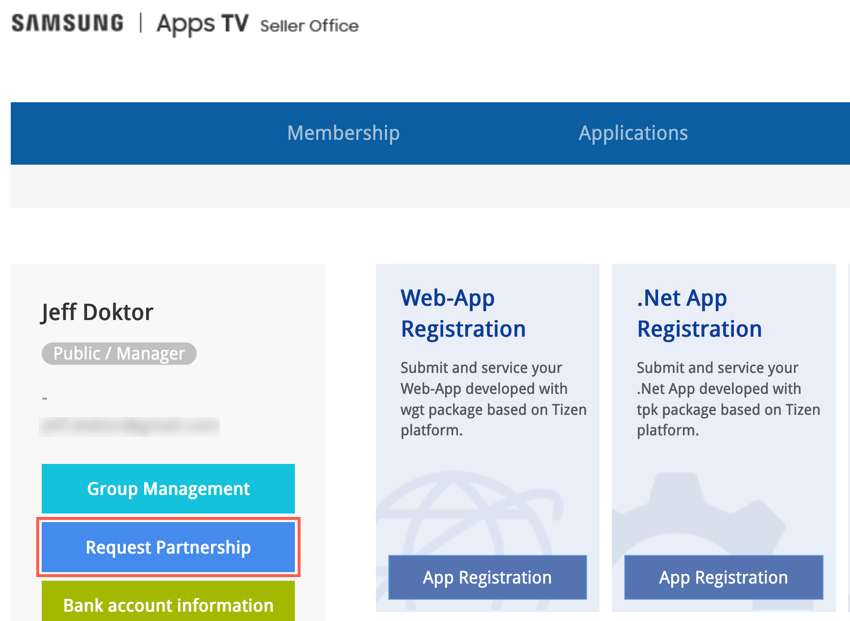
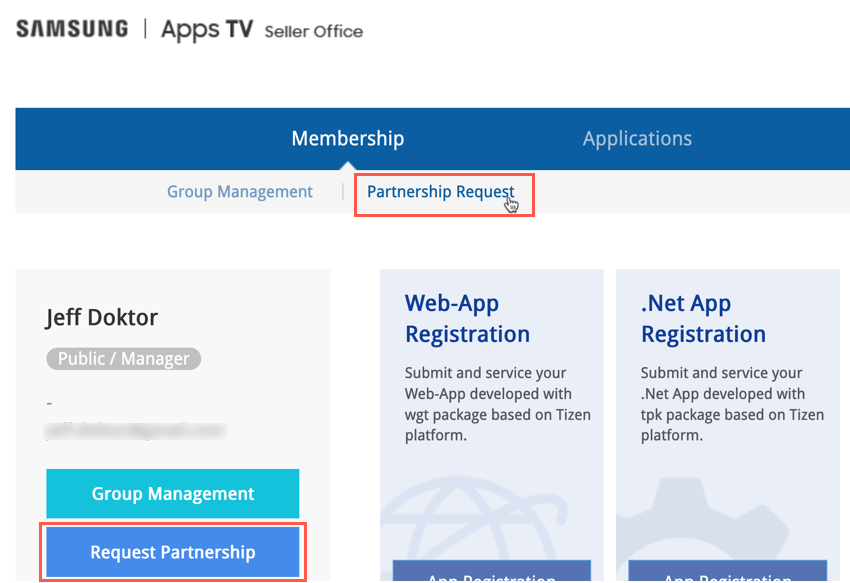
wip: partner privilege

diff --git a/_site/creating-your-apps/samsung/samsung-partner.html b/_site/creating-your-apps/samsung/samsung-partner.html
@@ -512,7 +512,7 @@ function doGTranslate(lang_pair) {if(lang_pair.value)lang_pair=lang_pair.value;i
     <ol class="bcls-tasklist-restart">
       <li>
         <p>
-          From the developer home screen, select the <strong>Request Partnership</strong> button.
+          From the developer home screen, select either the <strong>Request Partnership</strong> button in the left navigation or the <strong>Partnership Request</strong> link from the top navigation.
         </p>
         <figure class="bcls-figure">
           <img
@@ -591,6 +591,25 @@ function doGTranslate(lang_pair) {if(lang_pair.value)lang_pair=lang_pair.value;i
           <figcaption class="bcls-caption--image">Ask question</figcaption>
         </figure>
       </li>
+      <li>
+        <p>
+          You can check to see if you have been a partner seller, by viewing the <strong>Seller Office</strong> main page.
+        </p>
+        <figure class="bcls-figure">
+          <img
+            class="bcls-image--no-border"
+            src="/assets/images/creating-your-apps/samsung/partner/partner-seller.png"
+            alt="Partner seller"
+          />
+          <figcaption class="bcls-caption--image">Partner seller</figcaption>
+        </figure>
+      </li>
+      <li>
+        When you are finished filling in the partnership information page, select the <strong>Request Partnership</strong> button.
+      </li>
+      <li>
+        Once the Samsung content manager approves your request, you will become a Samsung Apps TV partner.
+      </li>
     </ol>
   </section>
 
@@ -636,7 +655,7 @@ function doGTranslate(lang_pair) {if(lang_pair.value)lang_pair=lang_pair.value;i
 
 <hr>
 <div class="last-updated">
-  Page last updated on 30 Jun 2020
+  Page last updated on 01 Jul 2020
 </div>
 
 

diff --git a/creating-your-apps/samsung/samsung-partner.html b/creating-your-apps/samsung/samsung-partner.html
@@ -118,7 +118,7 @@ layout: staging
     <ol class="bcls-tasklist-restart">
       <li>
         <p>
-          From the developer home screen, select the <strong>Request Partnership</strong> button.
+          From the developer home screen, select either the <strong>Request Partnership</strong> button in the left navigation or the <strong>Partnership Request</strong> link from the top navigation.
         </p>
         <figure class="bcls-figure">
           <img
@@ -196,6 +196,25 @@ layout: staging
           />
           <figcaption class="bcls-caption--image">Ask question</figcaption>
         </figure>
+      </li>
+      <li>
+        <p>
+          You can check to see if you have been a partner seller, by viewing the <strong>Seller Office</strong> main page.
+        </p>
+        <figure class="bcls-figure">
+          <img
+            class="bcls-image--no-border"
+            src="/assets/images/creating-your-apps/samsung/partner/partner-seller.png"
+            alt="Partner seller"
+          />
+          <figcaption class="bcls-caption--image">Partner seller</figcaption>
+        </figure>
+      </li>
+      <li>
+        When you are finished filling in the partnership information page, select the <strong>Request Partnership</strong> button.
+      </li>
+      <li>
+        Once the Samsung content manager approves your request, you will become a Samsung Apps TV partner.
       </li>
     </ol>
   </section>
